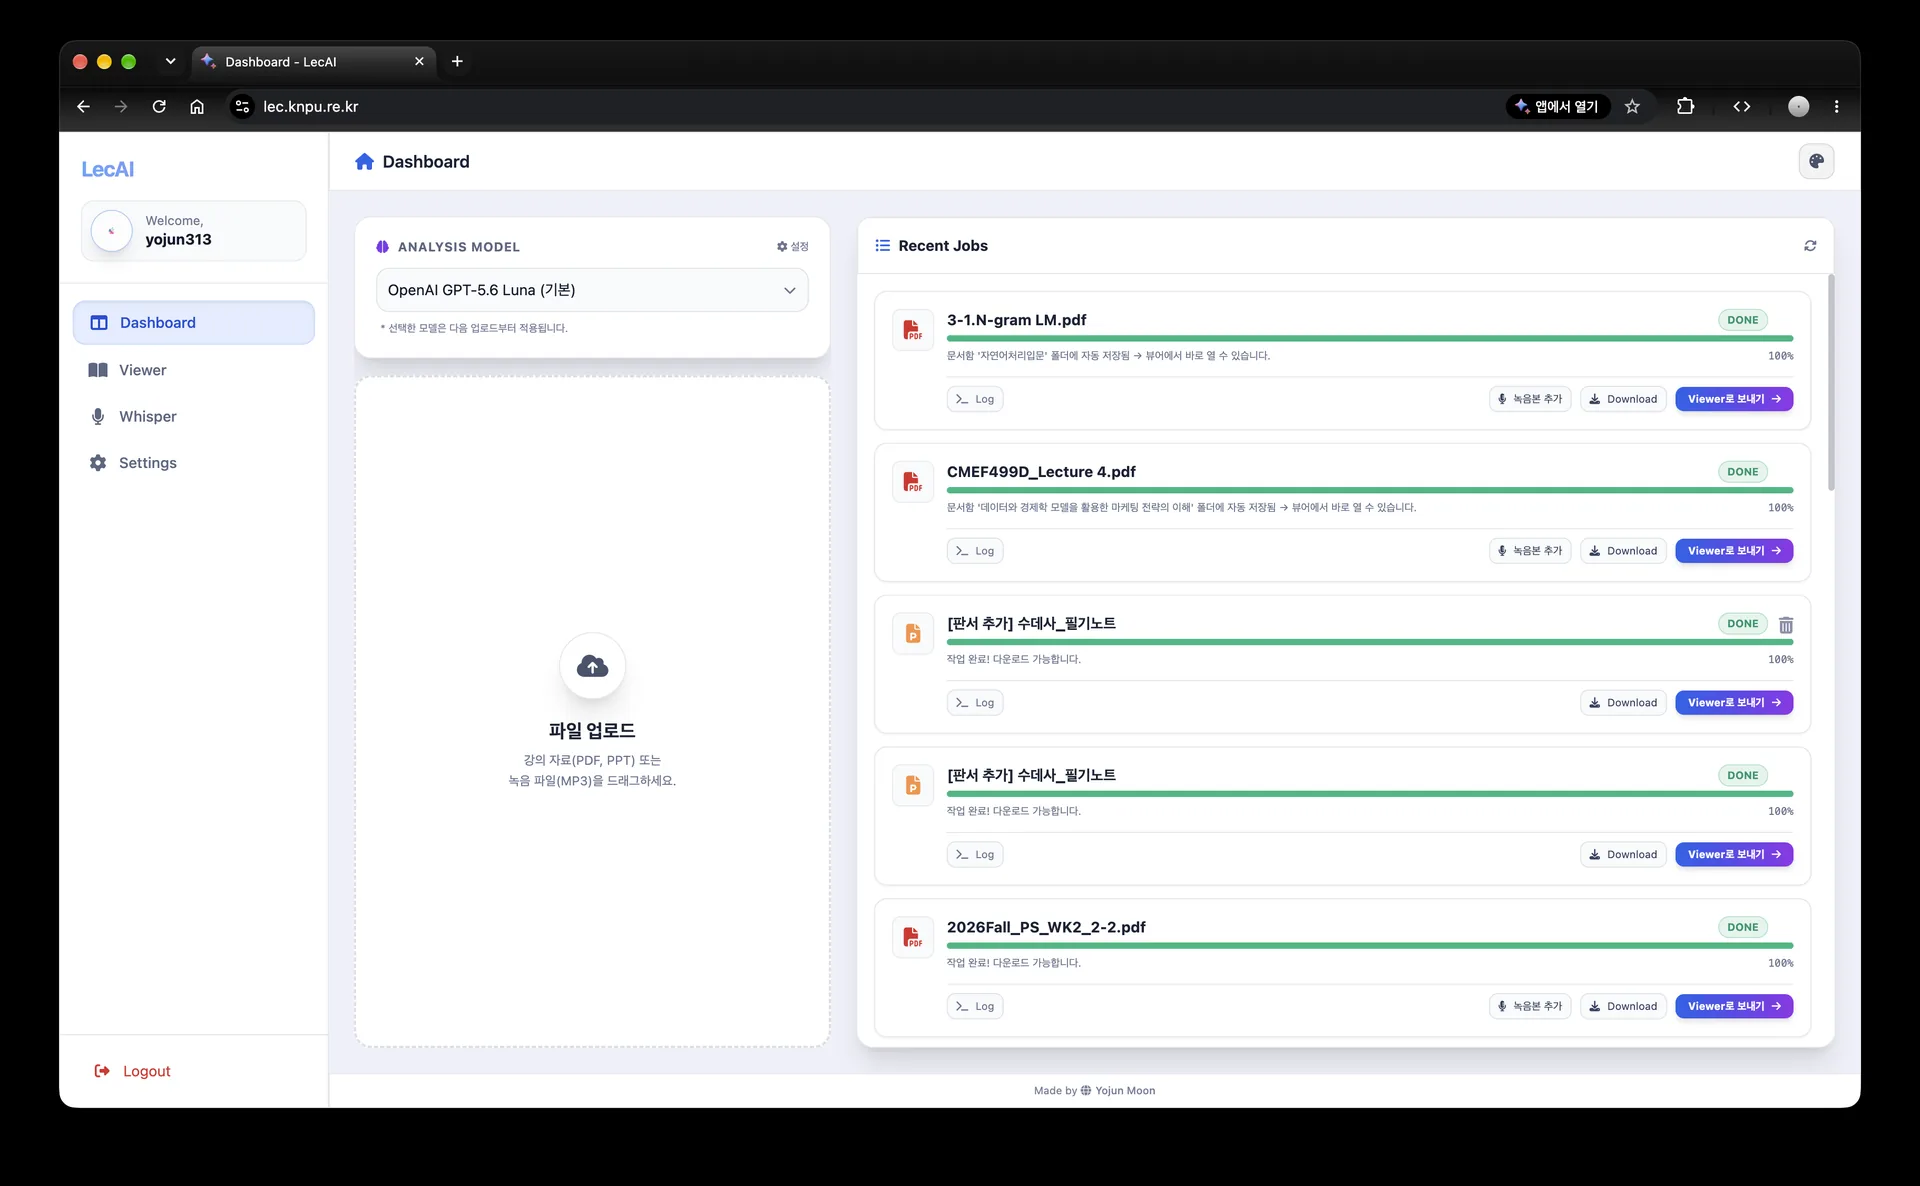
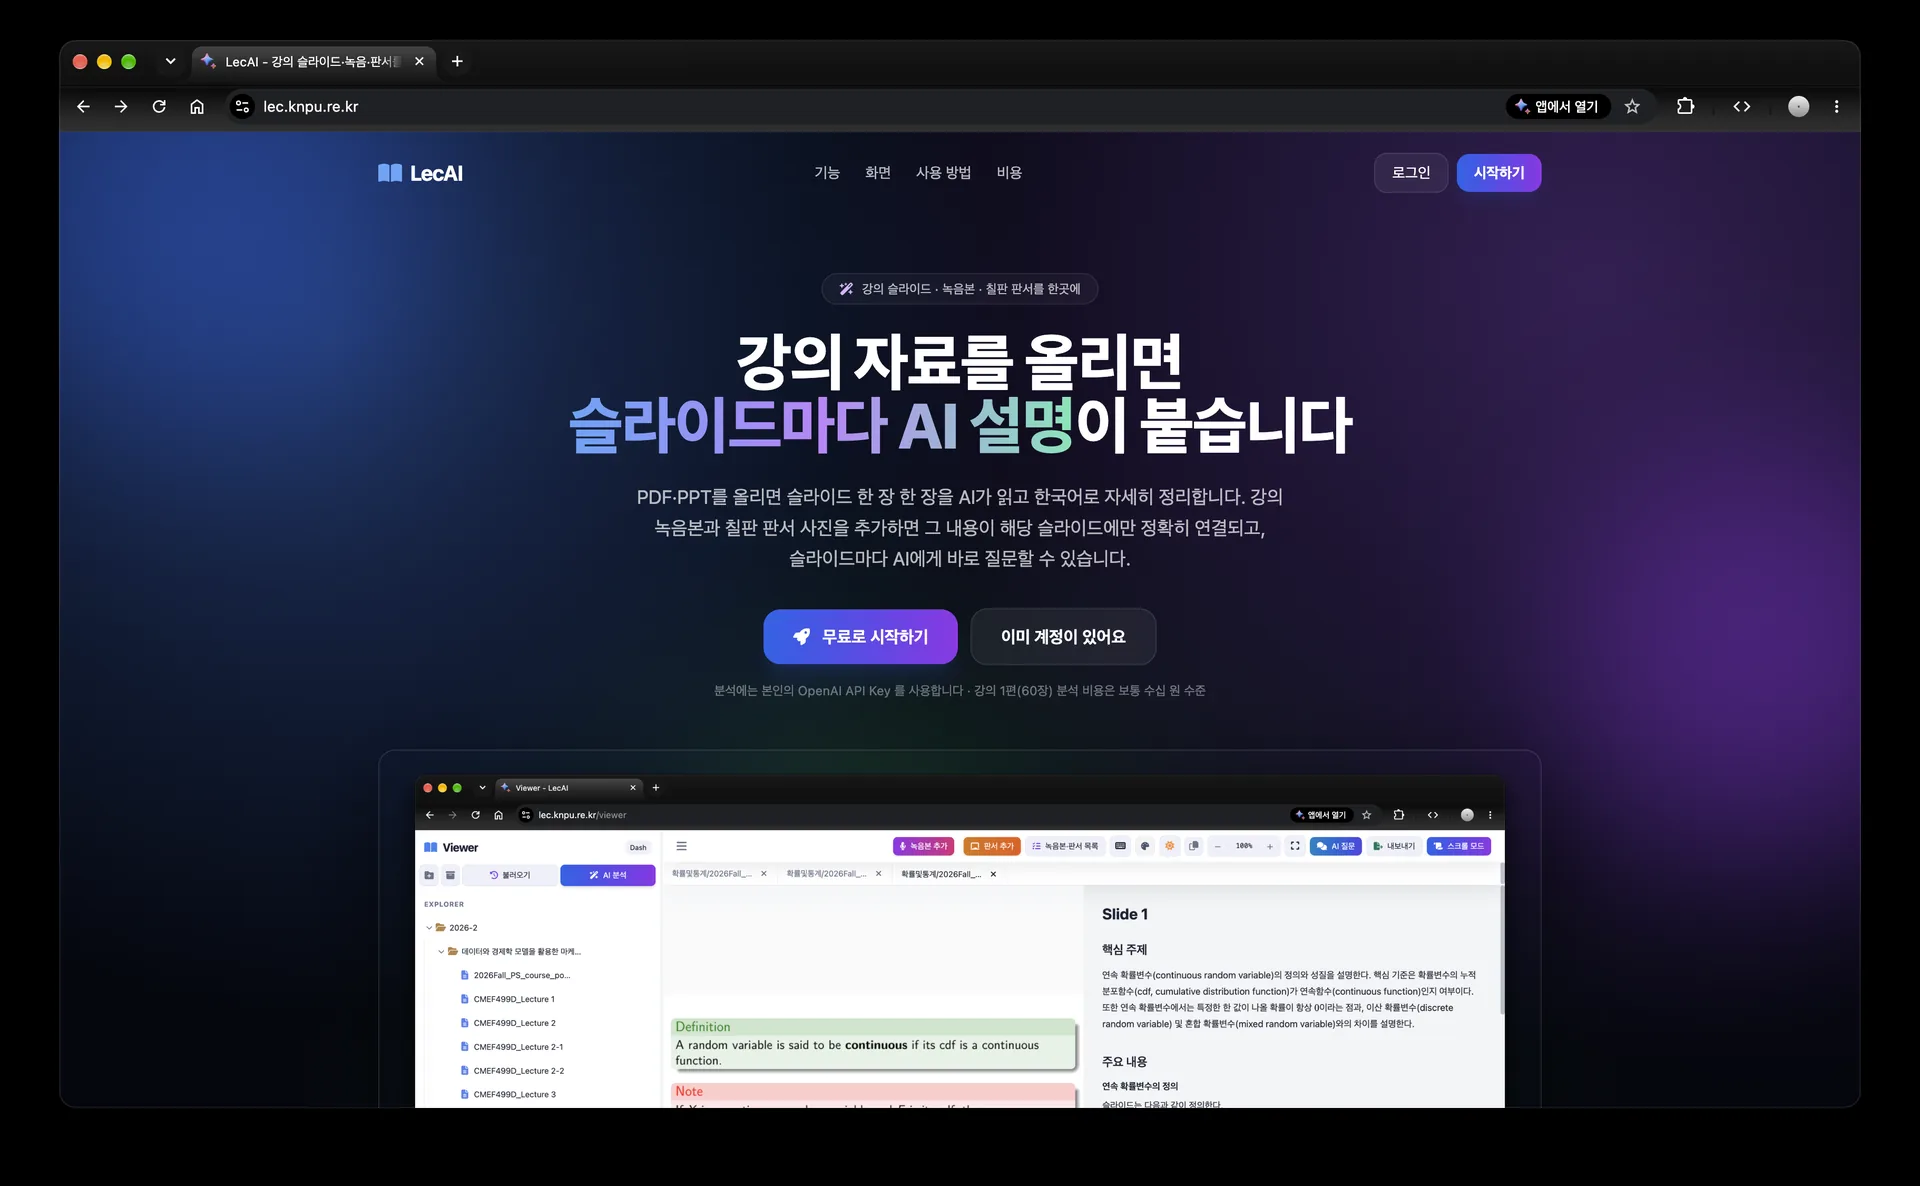
Add new image assets and update references in index.html

diff --git a/index.html b/index.html
@@ -471,7 +471,7 @@ footer a:hover{color:var(--accent)}
       <div class="grid">
 
         <a class="card" href="https://lec.knpu.re.kr" data-project="lecai">
-          <div class="frame"><img src="assets/systems/lecai/1.webp" alt="LecAI lecture material management screen" loading="lazy"><span class="count">3</span></div>
+          <div class="frame"><img src="assets/systems/lecai/1.webp" alt="LecAI lecture material management screen" loading="lazy"><span class="count">4</span></div>
           <div class="body">
             <div class="owner">Personal</div>
             <h3>LecAI</h3>
@@ -498,7 +498,7 @@ footer a:hover{color:var(--accent)}
       <div class="grid">
 
         <a class="card" href="https://pcss.postech.ac.kr/" data-project="pcss">
-          <div class="frame"><img src="assets/systems/pcss/1.webp" alt="PCSS conference selection by research area" loading="lazy"><span class="count">3</span></div>
+          <div class="frame"><img src="assets/systems/pcss/1.webp" alt="PCSS conference selection by research area" loading="lazy"><span class="count">4</span></div>
           <div class="body">
             <div class="owner">POSTECH CSE</div>
             <h3>PCSS</h3>
@@ -525,7 +525,7 @@ footer a:hover{color:var(--accent)}
       <div class="grid">
 
         <a class="card" href="https://manager.knpu.re.kr" data-project="manager">
-          <div class="frame"><img src="assets/systems/manager/1.webp" alt="MANAGER introduction page" loading="lazy"><span class="count">8</span></div>
+          <div class="frame"><img src="assets/systems/manager/1.webp" alt="MANAGER introduction page" loading="lazy"><span class="count">7</span></div>
           <div class="body">
             <div class="owner">KNPU · FPEI</div>
             <h3>Manager</h3>
@@ -589,7 +589,7 @@ footer a:hover{color:var(--accent)}
         </a>
 
         <a class="card" href="https://complaint.knpu.re.kr" data-project="complaint">
-          <div class="frame"><img src="assets/systems/complaint.webp" alt="AI legal complaint drafting service landing screen" loading="lazy"></div>
+          <div class="frame"><img src="assets/systems/complaint/1.webp" alt="AI legal complaint drafting service landing screen" loading="lazy"><span class="count">2</span></div>
           <div class="body">
             <div class="owner">KNPU · FPEI</div>
             <h3>Legal AI</h3>
@@ -682,17 +682,17 @@ footer a:hover{color:var(--accent)}
     lecai: [{ label: 'GitHub ↗', href: 'https://github.com/yojun313/LecAI' }]
   };
   var IMAGES = {
-    lecai: seq('lecai', 3),
+    lecai: seq('lecai', 4),
     eng2mouth: seq('eng2mouth', 4),
-    pcss: seq('pcss', 3),
+    pcss: seq('pcss', 4),
     commeet: seq('commeet', 4),
-    manager: seq('manager', 8),
+    manager: seq('manager', 7),
     crawler: seq('crawler', 1),
     network: seq('network', 1),
     statistics: seq('statistics', 1),
     kemkim: seq('kemkim', 1),
     labllm: ['assets/systems/labllm.webp'],
-    complaint: ['assets/systems/complaint.webp']
+    complaint: seq('complaint', 2)
   };
 
   var images = [], idx = 0, title = '';
